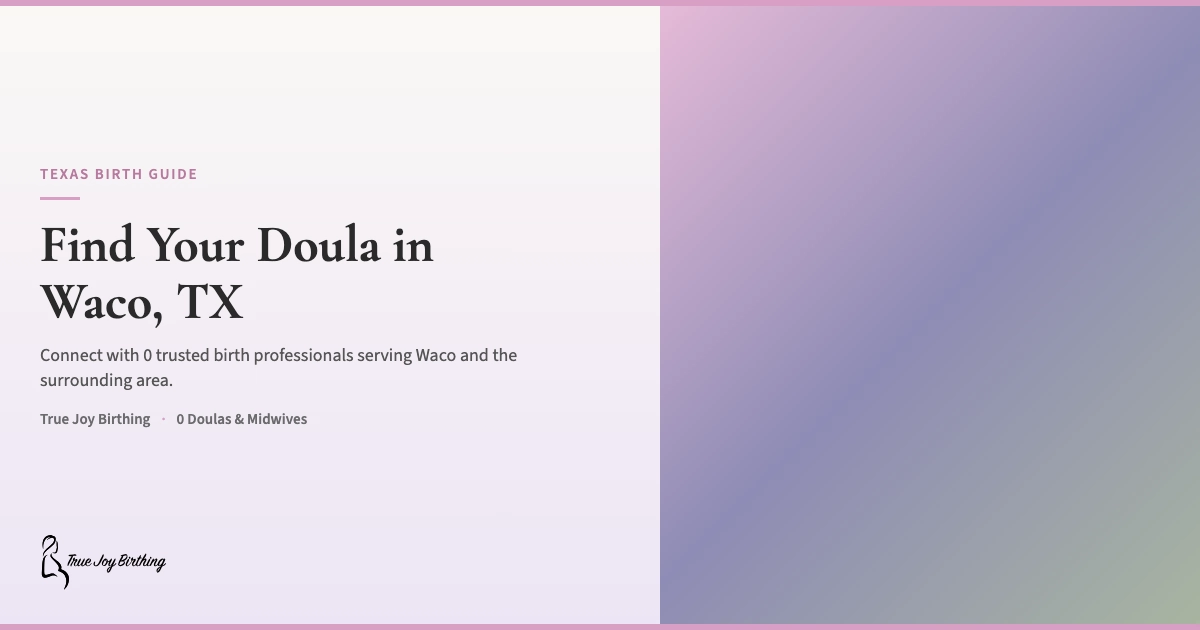
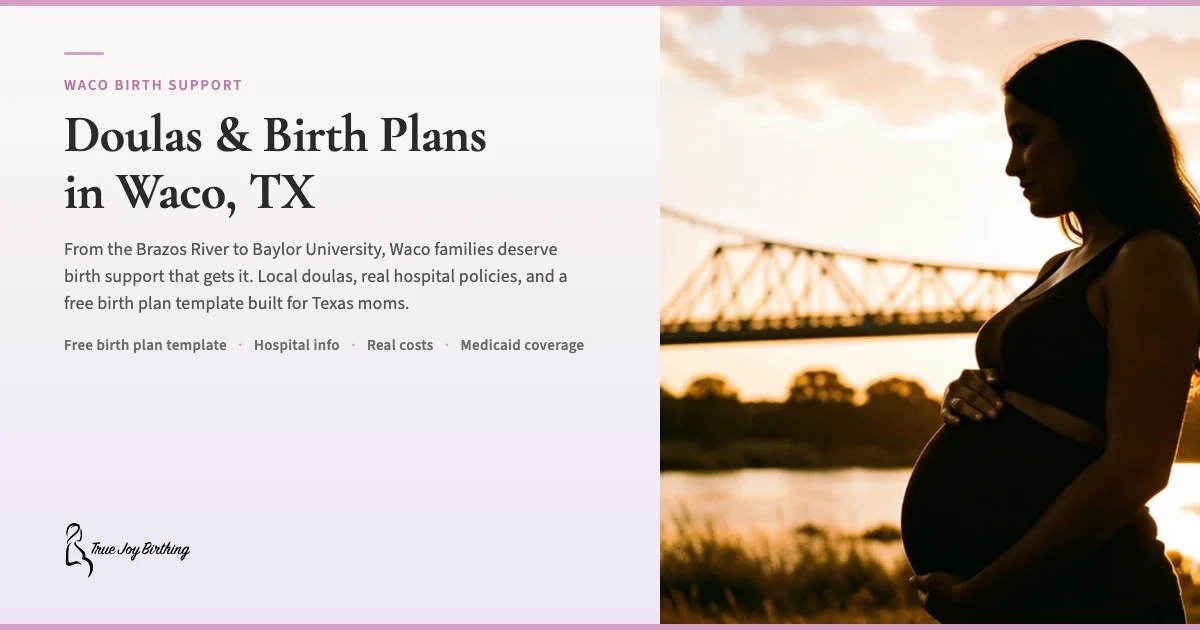
deploy: 2026-07-27 11:17 — orlando-fl: add birth center paragraphs, fix YouTube thumbnail template

diff --git a/src/data/cities.ts b/src/data/cities.ts
@@ -5379,23 +5379,105 @@ midwifeInfo: {
     city: "Waco",
     state: "TX",
     slug: "waco-tx",
+    lat: 31.5493,
+    lng: -97.1467,
     costLow: 800,
     costHigh: 1500,
     shelbiServesHere: false,
+    heroImage: "/images/waco-tx-hero-v3.webp",
+    ogImage: "/images/og-city-waco-tx.webp",
+    supportSceneImage: "/images/waco-tx-support-v2.webp",
     culture: "Waco sits halfway between Dallas and Austin on I-35, anchored by Baylor University and the visitor draw of Magnolia Market at the Silos. The city blends a college-town feel with small-town affordability \u2014 lower cost of living means birth support budgets stretch a bit further here than in the big metros. For expectant families, Waco\u2019s advantage is accessibility: two solid hospitals with NICU access and a freestanding birth center, which most cities this size don\u2019t have.",
     heroLocalDetail: "Both of Waco\u2019s hospitals sit along the I-35 corridor \u2014 Hillcrest near the Baylor campus and Providence up on Medical Parkway by the VA. I-35 construction through downtown can slow you down, so build in an extra 10\u201315 minutes when you\u2019re heading in. The Bosque River trail near both hospitals is a go-to for third-trimester evening walks.",
+    localDoulas: [
+      {
+        name: "Eryn Davidson",
+        credentials: "CD(Carriage House Birth)",
+        photo: "/images/doulas/eryn-davidson-waco.webp",
+        website: "https://eryndavidsondoula.com/",
+        costRange: "$950 (flat rate)",
+        costRange_source: "provider-website",
+        description: "Eryn Davidson is a birth doula based in Waco, certified through Carriage House Birth with 7 years of experience. She provides emotional, physical, and educational support through the prenatal, labor, birth, and immediate postpartum period. Eryn now offers support through Perennial Birth Co. and does not travel more than 40 miles outside downtown Waco. Virtual consultations are also available for birth planning and childbirth education.",
+        serviceArea: ["Waco", "Woodway", "Robinson", "Bellmeade", "Hewitt"],
+        services: ["Birth Doula", "Virtual Consultations", "Birth Planning", "Childbirth Education"],
+      },
+      {
+        name: "Micah Burgess",
+        credentials: "CD",
+        photo: "/images/doulas/micah-burgess-waco.webp",
+        website: "https://wacodoula.com/",
+        costRange: "$1,000-$1,500",
+        costRange_source: "market-estimate",
+        description: "Micah Burgess is the owner and founder of Waco Doula, a team of women supporting expecting moms in the Waco area. With 25 years of experience, Micah received most of her training through home births as a midwife assistant before becoming a certified doula in 2012. Waco Doula operates as an on-call rotation team with 2-4 doulas available at any given time, offering a single comprehensive package that includes a meet-and-greet, prenatal visit, birth prep class, continuous labor support, and a postpartum home visit.",
+        serviceArea: ["Waco", "Woodway", "Robinson", "Hewitt", "Lorena", "China Spring"],
+        services: ["Birth Doula", "Postpartum Doula", "Childbirth Education", "On-Call Team"],
+      },
+      {
+        name: "Hope Balfa",
+        credentials: "CD(Madriella), CLC, MSW",
+        photo: "/images/doulas/hope-balfa-waco.webp",
+        website: "https://www.bornbir.com/hope-balfa",
+        costRange: "$900-$1,400",
+        costRange_source: "market-estimate",
+        description: "Hope Balfa is a birth doula, certified life coach, Master\u2019s-level Social Worker, and mother of two based in Waco. Through her practice, Liminal Light, she blends social work education, trauma-informed care, and holistic coaching to nurture the whole person. Hope is certified through Madriella and also holds a Certified Lactation Counselor (CLC) credential. She supports women through life\u2019s sacred transitions from pregnancy and birth to postpartum and parenting, offering both in-person and virtual services.",
+        serviceArea: ["Waco", "Woodway", "Robinson", "Hewitt", "Bellmeade"],
+        services: ["Birth Doula", "Life Coaching", "Lactation Support", "Trauma-Informed Care"],
+      },
+      {
+        name: "Victoria Morton",
+        credentials: "CD(MaternityWise)",
+        photo: "/images/doulas/victoria-morton-waco.webp",
+        website: "https://www.barycenter-doula.com/",
+        costRange: "$800-$1,200",
+        costRange_source: "market-estimate",
+        description: "Victoria Morton is a MaternityWise certified birth doula and placenta encapsulation specialist based in Waco, TX. She supports families through pregnancy, birth, and postpartum with calm, grounded care, serving Waco, Killeen, Temple, Gatesville, and nearby areas. Her approach is gentle, intuitive, and rooted in evidence-based care, supporting both home births and hospital settings. Victoria also offers placenta encapsulation services for postpartum recovery.",
+        serviceArea: ["Waco", "Killeen", "Temple", "Gatesville", "Hewitt"],
+        services: ["Birth Doula", "Placenta Encapsulation", "Postpartum Support"],
+      },
+      {
+        name: "Dannette McGrew",
+        credentials: "CD, CBE, Brewer Diet Coach",
+        photo: "/images/doulas/dannette-mcgrew-waco.webp",
+        website: "https://www.bornbir.com/dannette-mcgrew",
+        costRange: "$900 (flat rate)",
+        costRange_source: "provider-website",
+        description: "Dannette McGrew is a certified birth doula and childbirth educator located near Waco, Texas. A former EMS professional turned physiological birth advocate, Dannette brings a unique perspective to birth support. Her doula package includes 2 prenatal visits, continuous labor support, and 2 postpartum visits. She goes on-call at 37 weeks and supports hospital, birth center, and home births when a licensed medical provider is present. She also provides childbirth education and Brewer Diet coaching.",
+        serviceArea: ["Waco", "China Spring", "Hewitt", "Lorena", "Robinson"],
+        services: ["Birth Doula", "Childbirth Education", "Brewer Diet Coaching", "Breastfeeding Support"],
+      },
+      {
+        name: "Krissa Robert",
+        credentials: "CD(DONA)",
+        photo: "/images/doulas/krissa-robert-waco.webp",
+        website: "https://www.bornbir.com/krissa-robert",
+        costRange: "$1,000-$1,500",
+        costRange_source: "market-estimate",
+        description: "Krissa Robert is a DONA International certified birth doula and trained postpartum doula serving families across Central Texas. With a Bachelor\u2019s degree in Human Development and Family Studies, she brings a deeper understanding of families, infant bonding, and the emotional transitions of parenthood. Krissa provides free services to qualifying families on WIC, SNAP, or Medicaid through a non-profit partnership. She supports all birth types \u2014 medicated, unmedicated, vaginal, or cesarean \u2014 and offers private childbirth, comfort measures, and breastfeeding classes.",
+        serviceArea: ["Waco", "Woodway", "Hewitt", "Robinson", "Bellmeade"],
+        services: ["Birth Doula", "Postpartum Doula", "Childbirth Education", "Breastfeeding Support"],
+      },
+    ],
     hospitalDetails: [
-      { name: "Baylor Scott & White Medical Center \u2013 Hillcrest", paragraph: "Baylor Scott &amp; White \u2013 Hillcrest, off I-35 and University Parks Drive, is McLennan County\u2019s only dedicated Women\u2019s &amp; Children\u2019s Center \u2014 14 L&amp;D rooms, 26 mother-baby rooms, and a 30-bed Level III NICU (contact the hospital directly for current level verification). Hillcrest is where most Waco-area OBs deliver, which means the unit runs at high volume and the team has seen everything. Doulas are generally welcome, but policies shift, so confirm during your hospital tour. If this is where you\u2019re delivering, write your birth plan before you need it \u2014 high volume means the nurses appreciate families who come prepared rather than making decisions on the fly. <a href=\"/birth-plan-template/\">Use our free hospital birth plan template</a> to get started." },
-      { name: "Ascension Providence Hospital", paragraph: "Ascension Providence, up on Medical Parkway near the Waco VA, has a Women's and Newborn Center with a Dell Children's Level II NICU on site (contact the hospital directly for current level verification). If we're being real, Providence's smaller L&D unit means you might see more one-on-one time with nursing staff \u2014 and shorter walks from the parking garage to the delivery room, which matters more than you'd think at 38 weeks." },
+      { name: "Baylor Scott & White Medical Center \u2013 Hillcrest", nicuLevel: "III", thumbnail: "/images/hillcrest-waco.webp", url: "https://www.bswhealth.com/locations/hospital/hillcrest/womens-health/labor-and-delivery", address: "3000 Herring Ave, Waco, TX 76708", doulaPolicy: "Welcome — confirm current policy during hospital tour", medicaid: true, paragraph: "Baylor Scott &amp; White \u2013 Hillcrest, off I-35 and University Parks Drive, is McLennan County\u2019s only dedicated Women\u2019s &amp; Children\u2019s Center \u2014 14 L&amp;D rooms, 26 mother-baby rooms, and a 30-bed Level III NICU. The 260-bed hospital is the only facility in the Waco area to offer Level III NICU services, staffed by neonatologists, neonatal nurse practitioners, and specialized nurses who care for babies born as early as 23 weeks. The Women\u2019s &amp; Children\u2019s Center includes a comprehensive OB/GYN program, private birthing suites, and mother-baby couplet care. Doulas are generally welcome but policies shift, so confirm during your hospital tour. Lactation consultants are available for in-room support after delivery, and the hospital offers childbirth education classes. If this is where you\u2019re delivering, write your birth plan before you need it \u2014 high volume means the nurses appreciate families who come prepared. <a href=\"/birth-plan-template/\">Use our free hospital birth plan template</a> to get started." },
+      { name: "Ascension Providence Hospital", nicuLevel: "II", thumbnail: "/images/providence-waco.webp", url: "https://healthcare.ascension.org/locations/texas/txwac/waco-ascension-providence-womens-and-newborn-center", address: "6901 Medical Pkwy, Waco, TX 76712", doulaPolicy: "Welcome — confirm current policy during hospital tour", medicaid: true, paragraph: "Ascension Providence, up on Medical Parkway near the Waco VA, has a Women\u2019s and Newborn Center with a Dell Children\u2019s Level II NICU on site for babies born premature after 32 weeks, monitored by neonatal nurse practitioners 24/7. The L&amp;D unit features private labor and delivery suites with birthing balls, squat bars, wireless monitors for easy mobility, and two rooms with large tubs for water labor. Providence\u2019s smaller unit means more one-on-one time with nursing staff and shorter walks from parking to the delivery room \u2014 which matters more than you\u2019d think at 38 weeks. The hospital provides 24/7 OB phone nurse support, high-risk pregnancy care, lactation consultants, and postpartum support. Ascension\u2019s faith-based mission emphasizes whole-person care, and the campus is known for its calm, patient-centered approach. <a href=\"/birth-plan-template/\">Use our free Joyful Birth Plan</a> to prepare for your delivery here." },
     ],
     birthCenterDetails: [
       // Verified active 2026-05-26: wacobirthcenter.com, NPI MedicalClinic schema at 1525 Austin Ave, Waco TX 76701, phone 254-224-6062. Google Maps "Waco Birth Center" returns this as primary result.
-      { name: "Waco Birth Center and Clinic", paragraph: "Waco Birth Center and Clinic, on Austin Avenue near downtown, is a licensed freestanding birth center staffed by certified nurse-midwives. They accept insurance and Medicaid, making them one of the more accessible out-of-hospital birth options in Central Texas." },
-      { name: "3 Sisters Midwifery", paragraph: "3 Sisters Midwifery, serving the Waco area from Elm Mott, is a birth center and home birth practice staffed by Certified Professional Midwives (CPMs). They offer prenatal care, labs, childbirth classes, breastfeeding and postpartum support, waterbirth, and co-care with physicians when needed. The practice limits clients to 4 per midwife to ensure personalized, relationship-based care. Phone: 254-304-6648.", url: "https://www.3sistersmidwifery.com/" },
-      { name: "East Gate Birth and Wellness", paragraph: "East Gate Birth and Wellness, on Waco Drive in Waco, provides home birth and waterbirth services with Certified Professional Midwives (CPMs). Home births only. no birth center facility. Services include comprehensive prenatal care, childbirth education, postpartum care, and lactation support for families in Waco and the surrounding central Texas area.", url: "https://eastgatebirthandwellness.com/" },
+      { name: "Waco Birth Center and Clinic", thumbnail: "/images/waco-birth-center-v3.webp", address: "1525 Austin Ave, Waco, TX 76701", url: "https://wacobirthcenter.com/", services: ["Midwife-Led Care", "Water Birth", "Insurance Accepted", "Medicaid Accepted", "Postpartum Care"], paragraph: "Waco Birth Center and Clinic, on Austin Avenue near downtown, is a licensed freestanding birth center staffed by certified nurse-midwives. They accept insurance and Medicaid, making them one of the more accessible out-of-hospital birth options in Central Texas." },
+      { name: "3 Sisters Midwifery", thumbnail: "/images/3sisters-midwifery-waco.webp", address: "Elm Mott, TX", url: "https://www.3sistersmidwifery.com/", services: ["Home Birth", "Water Birth", "Prenatal Care", "Childbirth Classes", "Postpartum Support"], paragraph: "3 Sisters Midwifery, serving the Waco area from Elm Mott, is a birth center and home birth practice staffed by Certified Professional Midwives (CPMs). They offer prenatal care, labs, childbirth classes, breastfeeding and postpartum support, waterbirth, and co-care with physicians when needed. The practice limits clients to 4 per midwife to ensure personalized, relationship-based care. Phone: 254-304-6648." },
+      { name: "East Gate Birth and Wellness", thumbnail: "/images/eastgate-birth-waco.webp", address: "Waco Drive, Waco, TX", url: "https://eastgatebirthandwellness.com/", services: ["Home Birth", "Water Birth", "Prenatal Care", "Postpartum Care", "Lactation Support"], paragraph: "East Gate Birth and Wellness, on Waco Drive in Waco, provides home birth and waterbirth services with Certified Professional Midwives (CPMs). Home births only. no birth center facility. Services include comprehensive prenatal care, childbirth education, postpartum care, and lactation support for families in Waco and the surrounding central Texas area." },
     ],
-    medicaidNote: "No. Texas does not yet have statewide Medicaid doula coverage as of May 2026. Some health plan pilots (like BCBS TX Special Beginning, Dell Children's Health Plan) offer limited doula benefits. ask your plan directly. For McLennan County's STAR managed care plans. Call Texas Medicaid at 1-877-543-7669 or visit YourTexasBenefits.com to confirm your plan's doula coverage before hiring.",
+    birthStats: {
+      cesareanRate: "32.2%",
+      maternalMortalityRate: "18.9 per 100,000",
+      homeBirthRate: "1.1%",
+      birthCenterBirthRate: "0.4%",
+      dataYear: "2023",
+      dataSource: "CDC NCHS National Vital Statistics System",
+    },
+    medicaidNote: "No \u2014 Texas does not yet have statewide Medicaid doula coverage as of May 2026. Some health plan pilots (like BCBS TX Special Beginning, Dell Children's Health Plan) offer limited doula benefits. ask your plan directly. For McLennan County's STAR managed care plans. Call Texas Medicaid at 1-877-543-7669 or visit YourTexasBenefits.com to confirm your plan's doula coverage before hiring.",
     insuranceNote: "Whether doula services are partially covered varies by plan in the Waco area. Check whether your plan covers out-of-network doula services, and whether HSA or FSA funds can help cover out-of-pocket costs. Contact your provider directly to confirm.",
+    midwifeInfo: "Waco has Certified Nurse-Midwives (CNMs) at Waco Birth Center and Clinic, and Certified Professional Midwives (CPMs) at 3 Sisters Midwifery and East Gate Birth and Wellness offering home birth and birth center services. Texas licenses CPMs for out-of-hospital births. Midwifery care typically costs $3,000-$5,000 for a full prenatal, birth, and postpartum package.",
     faqs: [
       { q: "How much does a doula cost in Waco?", a: "Expect to pay $800 to $1,500 for a doula in Waco. The investment typically covers prenatal visits, labor support, and postpartum check-ins. Grab the <a href=\"/birth-plan-template/\">free Joyful Birth Plan</a> and start thinking about what matters most to you." },
       { q: "Does Medicaid cover doulas in Waco?", a: "Not yet. Texas does not have statewide Medicaid doula coverage as of May 2026. Some health plans (like BCBS TX Special Beginning, Dell Children's) offer limited doula benefits. That includes McLennan County's STAR managed care plans. Here's your next step: call your Medicaid plan and ask \"Do you cover doula services?\". they'll walk you through it, or call 1-877-543-7669 directly. You can also check online at YourTexasBenefits.com. You deserve support, and some plans are starting to help pay for it." },

diff --git a/scripts/og-city-waco-tx-composition.html b/scripts/og-city-waco-tx-composition.html
@@ -1,0 +1,202 @@
+<!DOCTYPE html>
+<html>
+<head>
+<meta charset="utf-8">
+<link rel="preconnect" href="https://fonts.googleapis.com">
+<link rel="preconnect" href="https://fonts.gstatic.com" crossorigin>
+<link href="https://fonts.googleapis.com/css2?family=Cormorant+Garamond:wght@600;700&family=Source+Sans+3:wght@400;600;700&display=swap" rel="stylesheet">
+<style>
+  * { margin: 0; padding: 0; box-sizing: border-box; }
+  html, body {
+    width: 1200px;
+    height: 630px;
+    background: #FAF8F5;
+    overflow: hidden;
+  }
+  .og-card {
+    display: flex;
+    flex-direction: row;
+    width: 1200px;
+    height: 630px;
+  }
+  /* LEFT: Text content on cream gradient */
+  .left-column {
+    width: 660px;
+    display: flex;
+    flex-direction: column;
+    justify-content: center;
+    padding: 52px 64px;
+    background: linear-gradient(180deg, #FAF8F5 0%, #EDE5F5 100%);
+    position: relative;
+  }
+  /* Rose accent bar at top */
+  .left-column::before {
+    content: '';
+    position: absolute;
+    top: 0;
+    left: 0;
+    right: 0;
+    height: 6px;
+    background: #D8A0C4;
+  }
+  /* Rose accent bar at bottom */
+  .left-column::after {
+    content: '';
+    position: absolute;
+    bottom: 0;
+    left: 0;
+    right: 0;
+    height: 6px;
+    background: #D8A0C4;
+  }
+  /* RIGHT: Hero image */
+  .right-column {
+    width: 540px;
+    position: relative;
+    overflow: hidden;
+  }
+  .right-column img {
+    width: 100%;
+    height: 100%;
+    object-fit: cover;
+    object-position: center;
+  }
+  /* Rose accent bars on image side */
+  .right-column::before {
+    content: '';
+    position: absolute;
+    top: 0;
+    left: 0;
+    right: 0;
+    height: 6px;
+    background: #D8A0C4;
+    z-index: 2;
+  }
+  .right-column::after {
+    content: '';
+    position: absolute;
+    bottom: 0;
+    left: 0;
+    right: 0;
+    height: 6px;
+    background: #D8A0C4;
+    z-index: 2;
+  }
+  .accent-line {
+    width: 40px;
+    height: 3px;
+    background: #D8A0C4;
+    border-radius: 2px;
+    margin-bottom: 20px;
+  }
+  .eyebrow {
+    font-family: 'Source Sans 3', system-ui, sans-serif;
+    font-weight: 600;
+    font-size: 15px;
+    color: #B87AA0;
+    text-transform: uppercase;
+    letter-spacing: 0.12em;
+    margin-bottom: 10px;
+  }
+  .headline {
+    font-family: 'Cormorant Garamond', Georgia, serif;
+    font-weight: 700;
+    font-size: 52px;
+    color: #2A2A2A;
+    letter-spacing: -0.01em;
+    line-height: 1.1;
+    margin-bottom: 16px;
+  }
+  .summary {
+    font-family: 'Source Sans 3', system-ui, sans-serif;
+    font-weight: 400;
+    font-size: 18px;
+    color: #555555;
+    letter-spacing: 0.005em;
+    line-height: 1.5;
+    margin-bottom: 18px;
+    max-width: 520px;
+  }
+  .subhead {
+    font-family: 'Source Sans 3', system-ui, sans-serif;
+    font-weight: 600;
+    font-size: 15px;
+    color: #6A6B6C;
+    letter-spacing: 0.02em;
+  }
+  .subhead span {
+    margin: 0 8px;
+    color: #D8A0C4;
+  }
+  /* Logo — mono SVG for contrast on cream backgrounds, minimum 56px height */
+  .logo-area {
+    margin-top: auto;
+    padding-top: 20px;
+    display: flex;
+    align-items: center;
+  }
+  .logo-area img {
+    height: 56px;
+    width: auto;
+  }
+</style>
+</head>
+<!--
+  CANONICAL Pattern B OG Template for TJB Location/City Pages
+  ============================================================
+  
+  REPLACE THESE PLACEHOLDERS before rendering:
+  
+  WACO BIRTH SUPPORT     → e.g. "DENVER BIRTH SUPPORT" (uppercase, city name + "BIRTH SUPPORT")
+  Doulas &amp; Birth Plans<br>in Waco, TX    → e.g. "Doulas & Birth Plans<br>in Denver, CO" (Cormorant Garamond, max 2 lines)
+  From the Brazos River to Baylor University, Waco families deserve birth support that gets it. Local doulas, real hospital policies, and a free birth plan template built for Texas moms.     → City-specific 1-2 sentence pitch. Reference local landmarks/geography.
+                     e.g. "From the Front Range to the Platte, Denver families deserve birth support
+                     that gets it. Local doulas, real hospital policies, and a free birth plan
+                     template built for Colorado moms."
+  Free birth plan template <span>·</span> Hospital info <span>·</span> Real costs <span>·</span> Medicaid coverage     → e.g. "Free birth plan template · Hospital info · Real costs · Medicaid coverage"
+                     (Use · separator between items)
+  file:///Users/socializerender/Projects/truejoybirthing-website/public/images/waco-tx-hero-v3.webp  → Production URL of city hero image, or gradient fallback.
+                     Denver: https://truejoybirthing.com/images/denver-hero-front-range.webp
+                     Other cities without hero: Use branded gradient div instead (see below)
+  https://truejoybirthing.com/images/logo-mono.svg    → https://truejoybirthing.com/images/logo-mono.svg
+                     (ALWAYS use mono — the color logo washes out on cream backgrounds)
+  
+  FOR CITIES WITHOUT A HERO IMAGE:
+  Replace the <div class="right-column"><img .../></div> with:
+  <div class="right-column" style="background: linear-gradient(135deg, #E6BBD8 0%, #8E8CB5 50%, #A8B5A0 100%);"></div>
+  This is the same gradient as Pattern A cards — a safe branded fallback.
+  
+  RENDERING:
+  Use Playwright with viewport 1200×630, deviceScaleFactor=1. See og-creation-workflow.md.
+  
+  DESIGN RULES:
+  - Logo MUST be logo-mono.svg (black line art). The color logo.svg uses pastel fills 
+    that are invisible on cream backgrounds.
+  - Logo MUST be ≥56px height. The old 14px wordmark was invisible at thumbnail scale.
+  - Summary text is city-specific — NOT generic. Reference local geography/landmarks.
+  - Photo goes on the RIGHT (540px). Text stack on the LEFT (660px).
+  - Rose bars (6px #D8A0C4) at top/bottom of BOTH columns.
+  - PNG format for output (LinkedIn/X don't reliably render WebP).
+  
+  VERSION HISTORY:
+  - v1: Gradient right panel, 14px text-only wordmark, no summary, no photo
+  - v2 (June 2026): Photo right column, 56px mono logo, city-specific summary, eyebrow
+-->
+<body>
+<div class="og-card">
+  <div class="left-column">
+    <div class="accent-line"></div>
+    <div class="eyebrow">WACO BIRTH SUPPORT</div>
+    <div class="headline">Doulas &amp; Birth Plans<br>in Waco, TX</div>
+    <div class="summary">From the Brazos River to Baylor University, Waco families deserve birth support that gets it. Local doulas, real hospital policies, and a free birth plan template built for Texas moms.</div>
+    <div class="subhead">Free birth plan template <span>·</span> Hospital info <span>·</span> Real costs <span>·</span> Medicaid coverage</div>
+    <div class="logo-area">
+      <img src="https://truejoybirthing.com/images/logo-mono.svg" alt="True Joy Birthing" />
+    </div>
+  </div>
+  <div class="right-column">
+    <img src="file:///Users/socializerender/Projects/truejoybirthing-website/public/images/waco-tx-hero-v3.webp" alt="Waco" />
+  </div>
+</div>
+</body>
+</html>
